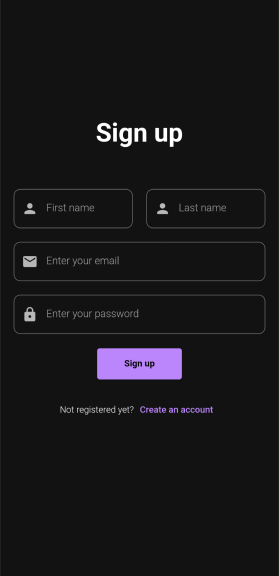
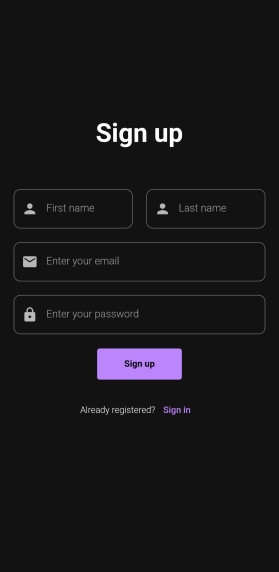
Register screen text

diff --git a/lib/register_screen.dart b/lib/register_screen.dart
@@ -134,7 +134,7 @@ class _RegisterPageState extends State<RegisterPage> {
                   Row(
                     mainAxisAlignment: MainAxisAlignment.center,
                     children: [
-                      const Text('Not registered yet?'),
+                      const Text('Already registered?'),
                       TextButton(
                         onPressed: () {
                           Navigator.pushReplacement(
@@ -145,7 +145,7 @@ class _RegisterPageState extends State<RegisterPage> {
                             ),
                           );
                         },
-                        child: const Text('Create an account'),
+                        child: const Text('Sign in'),
                       ),
                     ],
                   ),
